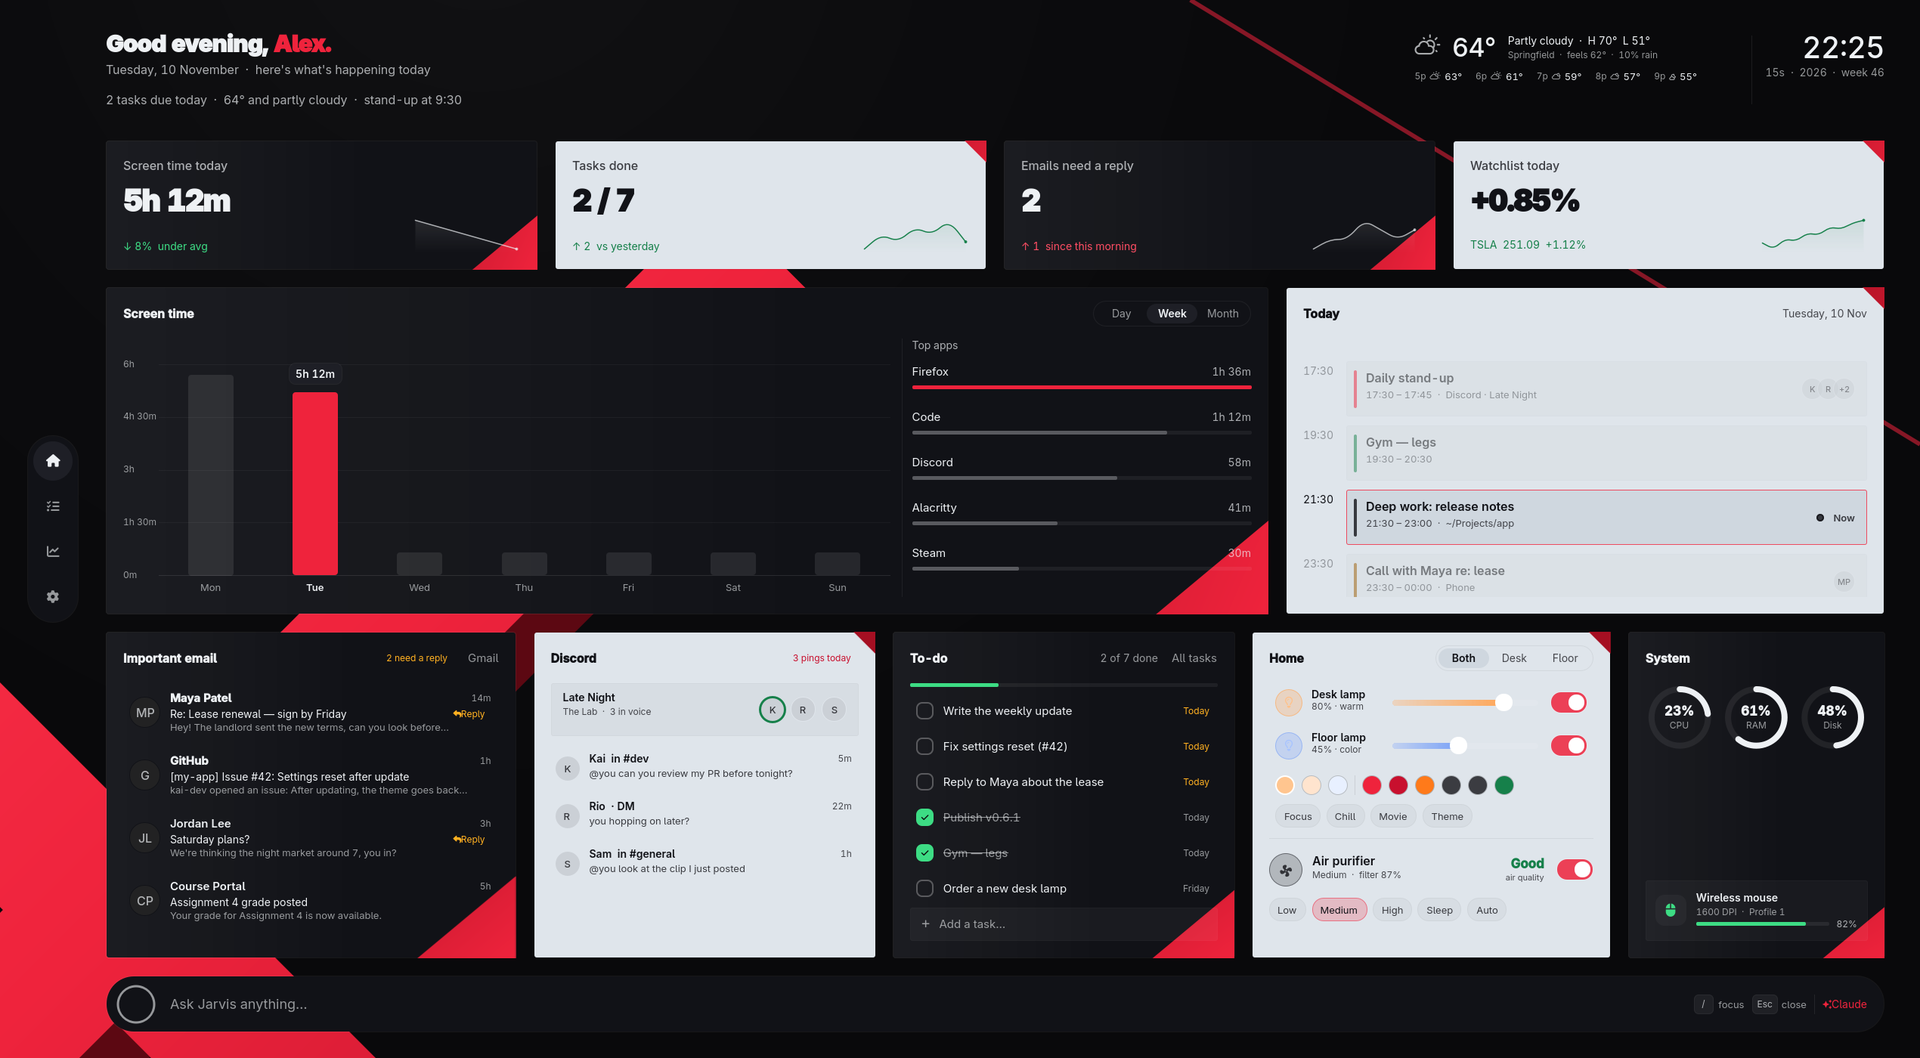
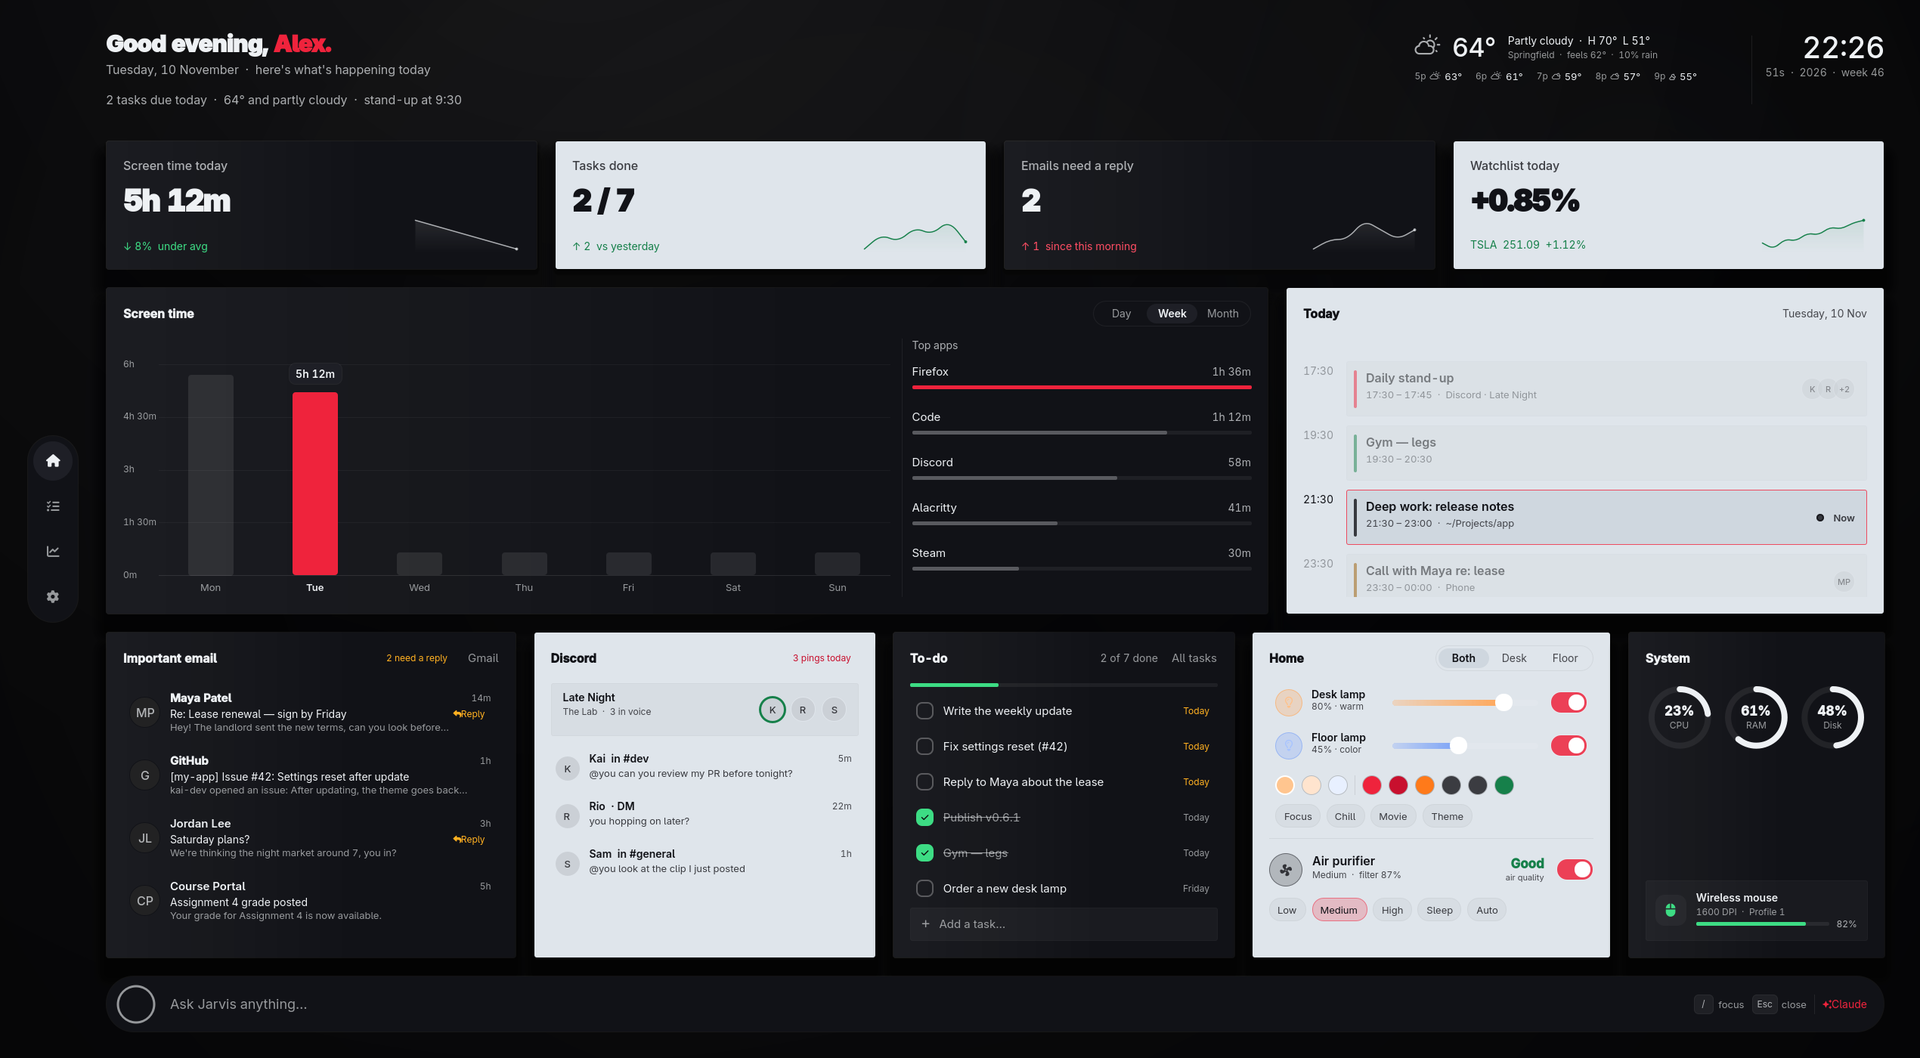
1.3.1: Ynnad style with studio shadows instead of red shapes
The Ynnad style drops the red wedges, corner flags and background X.
Cards sit on soft product-shot shadows over a spotlit, vignetted
backdrop; Racing Red stays as the accent only.

diff --git a/GlassCard.qml b/GlassCard.qml
@@ -67,6 +67,10 @@ Item {
   SoftShadow { visible: card.t.neu; target: bg; radius: bg.radius; blur: card.t.px(26); dx: card.t.px(11); dy: card.t.px(11); color: card.t.shadowDark; strength: 0.9 }
   SoftShadow { visible: card.t.clay; target: bg; radius: bg.radius; blur: card.t.px(36); dx: 0; dy: card.t.px(16); color: "black"; strength: 0.8 }
   SoftShadow { visible: card.t.y2k; target: bg; radius: bg.radius; blur: card.t.px(3); dx: card.t.px(6); dy: card.t.px(6); color: "#00052e"; strength: 0.9; steps: 3 }
+  // ynnad: product-shot lighting: a wide soft shadow below, a tighter one
+  // close under the edge.
+  SoftShadow { visible: card.t.ynnad; target: bg; radius: bg.radius; blur: card.t.px(40); dx: 0; dy: card.t.px(18); color: "black"; strength: 0.9 }
+  SoftShadow { visible: card.t.ynnad; target: bg; radius: bg.radius; blur: card.t.px(10); dx: 0; dy: card.t.px(4); color: "black"; strength: 0.5 }
   SoftShadow { visible: card.t.wabi; target: bg; radius: bg.radius; blur: card.t.px(22); dx: 0; dy: card.t.px(7); color: "#3a2a1a"; strength: 0.26 }
 
   // ---- the surface --------------------------------------------------------------------
@@ -196,8 +200,7 @@ Item {
       border.color: Qt.rgba(0.23, 0.19, 0.14, 0.12)
     }
 
-    // ynnad: a studio spotlight on obsidian cards, and Racing Red cutting
-    // across a corner: a broad wedge on obsidian, a thin slash on Ice Grey.
+    // ynnad: a studio spotlight across obsidian cards
     Rectangle {
       visible: card.t.ynnad && card.t.dark
       anchors.fill: parent
@@ -208,40 +211,6 @@ Item {
         GradientStop { position: 0.6; color: Qt.rgba(1, 1, 1, 0.0) }
       }
     }
-    Canvas {
-      id: redCut
-      visible: card.t.ynnad
-      anchors.fill: parent
-      readonly property bool darkCard: card.t.dark
-      onWidthChanged: requestPaint()
-      onHeightChanged: requestPaint()
-      onDarkCardChanged: requestPaint()
-      onVisibleChanged: requestPaint()
-      onPaint: {
-        var ctx = getContext("2d")
-        ctx.reset()
-        if (!visible) return
-        var w = width, h = height
-        var g = ctx.createLinearGradient(w, h, w * 0.6, h * 0.4)
-        g.addColorStop(0, "#ef233c")
-        g.addColorStop(1, "#a50f22")
-        ctx.fillStyle = g
-        ctx.beginPath()
-        if (darkCard) {
-          // A wedge rising from the bottom-right corner, kept small enough
-          // to stay clear of the card's content.
-          var d = Math.min(w * 0.2, h * 0.42, card.t.px(96))
-          ctx.moveTo(w - d * 1.2, h); ctx.lineTo(w, h - d); ctx.lineTo(w, h)
-        } else {
-          // A small corner flag, top-right, clear of the header text.
-          var e = card.t.px(22)
-          ctx.moveTo(w - e, 0); ctx.lineTo(w, 0); ctx.lineTo(w, e)
-        }
-        ctx.closePath()
-        ctx.fill()
-      }
-    }
-
     // discord: an embed's colored bar down the left edge
     Rectangle {
       visible: card.t.discord

diff --git a/Aurora.qml b/Aurora.qml
@@ -10,7 +10,7 @@ import Quickshell
 //          sparkles and HUD labels in the margins
 //   swiss  plain paper with a faint 12-column grid
 //   wabi   warm paper with a little grain
-//   ynnad  near-black with a big extruded Racing Red X and a red sweep
+//   ynnad  a studio backdrop: soft spotlight and vignette
 // Painted with gradients and a Canvas, so no shader support is needed.
 Item {
   id: canvas
@@ -145,33 +145,15 @@ Item {
         break
       }
       case "ynnad": {
-        // A big extruded Racing Red X, lit from the top-left, partly behind
-        // the cards like the brand mark in a poster; a soft spotlight above.
-        blob(w * 0.25, -h * 0.1, h * 0.9, Qt.rgba(1, 1, 1, 1), 0.035)
-        var cx = w * 0.06, cy = h * 0.86, R = h * 0.62, th = h * 0.15
-        function bar(x1, y1, x2, y2, fill) {
-          var dx = x2 - x1, dy = y2 - y1, L = Math.sqrt(dx * dx + dy * dy)
-          var nx = -dy / L * th / 2, ny = dx / L * th / 2
-          ctx.fillStyle = fill
-          ctx.beginPath()
-          ctx.moveTo(x1 + nx, y1 + ny); ctx.lineTo(x2 + nx, y2 + ny)
-          ctx.lineTo(x2 - nx, y2 - ny); ctx.lineTo(x1 - nx, y1 - ny)
-          ctx.closePath(); ctx.fill()
-        }
-        // Depth: the same X, darker, nudged down-right.
-        var off = th * 0.22
-        bar(cx - R + off, cy - R + off, cx + R + off, cy + R + off, "#5c0812")
-        bar(cx - R + off, cy + R + off, cx + R + off, cy - R + off, "#5c0812")
-        var face = ctx.createLinearGradient(cx - R, cy - R, cx + R, cy + R)
-        face.addColorStop(0, "#ff3b52")
-        face.addColorStop(0.5, "#ef233c")
-        face.addColorStop(1, "#b5122a")
-        bar(cx - R, cy - R, cx + R, cy + R, face)
-        bar(cx - R, cy + R, cx + R, cy - R, face)
-        // A thin red sweep across the top-right.
-        ctx.strokeStyle = "rgba(239,35,60,0.55)"
-        ctx.lineWidth = Math.max(2, h * 0.004)
-        ctx.beginPath(); ctx.moveTo(w * 0.62, 0); ctx.lineTo(w, h * 0.42); ctx.stroke()
+        // A studio backdrop: a broad soft spotlight from above-left, falling
+        // off into a dark vignette at the edges.
+        blob(w * 0.3, -h * 0.15, h * 1.2, Qt.rgba(1, 1, 1, 1), 0.07)
+        blob(w * 0.85, h * 0.2, h * 0.7, Qt.rgba(0.87, 0.9, 0.92, 1), 0.035)
+        var v = ctx.createRadialGradient(w * 0.45, h * 0.4, h * 0.35, w * 0.45, h * 0.4, w * 0.75)
+        v.addColorStop(0, "rgba(0,0,0,0)")
+        v.addColorStop(1, "rgba(0,0,0,0.55)")
+        ctx.fillStyle = v
+        ctx.fillRect(0, 0, w, h)
         break
       }
       case "swiss": {

diff --git a/SettingsPage.qml b/SettingsPage.qml
@@ -302,15 +302,6 @@ Item {
         width: 3; height: parent.height
         color: mini.c("accent", mini.p.accent || page.t.themeAccent)
       }
-      Canvas {
-        visible: mini.styleKey === "ynnad"
-        anchors.fill: parent
-        onPaint: {
-          var ctx = getContext("2d"); ctx.reset()
-          ctx.fillStyle = "#ef233c"
-          ctx.beginPath(); ctx.moveTo(width * 0.62, height); ctx.lineTo(width, height * 0.35); ctx.lineTo(width, height); ctx.closePath(); ctx.fill()
-        }
-      }
       Rectangle {
         x: page.t.px(8); y: mini.styleKey === "y2k" ? parent.height * 0.32 : page.t.px(8)
         width: parent.width * 0.4; height: page.t.px(4); radius: 2

diff --git a/README.md b/README.md
@@ -12,8 +12,8 @@ inside the Omarchy shell as the `ynnad.jarvis` plugin.
 | ![Tasks](docs/tasks.png) | ![Stocks](docs/stocks.png) | ![Settings](docs/settings.png) |
 
 Ten styles, switchable in Settings, with your own colors on top: flat, glass,
-neumorphism, claymorphism, Y2K, Swiss, wabi-sabi, Ynnad (obsidian, ice grey
-and racing red), **Omarchy** (matches your desktop: your Omarchy theme's
+neumorphism, claymorphism, Y2K, Swiss, wabi-sabi, Ynnad (obsidian and ice grey
+cards with soft studio shadows), **Omarchy** (matches your desktop: your Omarchy theme's
 colors, font, corners and wallpaper, and follows theme changes) and
 **Discord** (Discord's dark theme, embeds and all).
 
